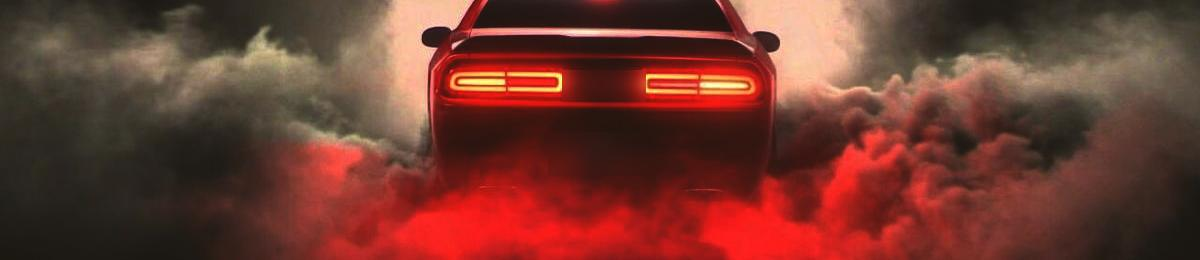
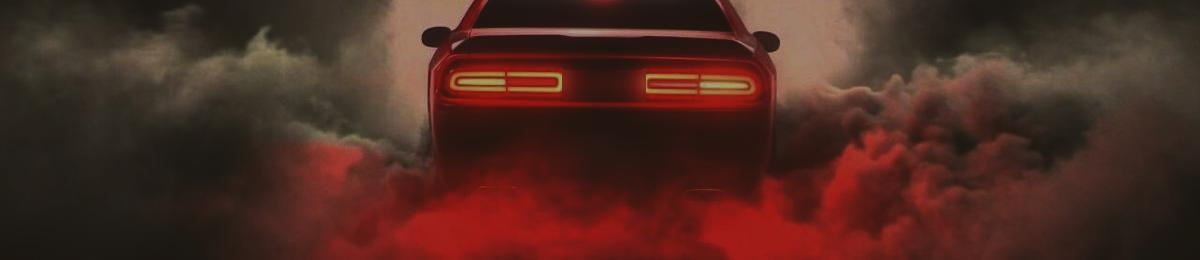
amochini: fade the brake-light band back; black and white loses
Tried both. Faded wins, so the photograph is now mixed 40% toward --board
inside the same LUT that grades it, and sits behind the page instead of on
top of it.

The mix was swept on the real page at 390 and 1440, not picked. At 0 the
bright smoke on the left pulls the eye off the price table; at 0.55 the
frame reads as underexposed rather than dark. 0.40 is where the lamps
still glow and nothing competes with the figure. Mean luminance 73.1 ->
52.6, against the board's own 22.0.

Black and white lost on both counts. It fades nothing back —
desaturating leaves mean luminance at 67.7 against colour's 73.1, so the
band is just as bright — and it changes what the picture is of: with the
red gone the grey smoke becomes the subject and the light bars read as
headlights, which is the wrong end of the car for a shop that sells
brakes. Both a 2.2 and a harder 2.8 gamma were built and looked at.

Side effect worth having: a dimmer frame compresses smaller. 6.9 KB at
1200px against 9.4, so desktop home goes 147.6 -> 145.1 KB against the
150 budget, and mobile 146.1 -> 138.4. Re-swept quality at the new grade
to confirm q=50 still holds; it does.

Contrast re-measured (worst box still clears AA), CLS still 0.000 on all
24 combinations. DESIGN.md 14.4 records both the sweep and the rejected
option so nobody re-litigates it from scratch.

Claude-Session: https://claude.ai/code/session_01CRo3rMVmoKbPJN1txZYpaW

diff --git a/amochini/build/make_images.py b/amochini/build/make_images.py
@@ -66,11 +66,12 @@ Q_HERO = dict(avif=38, webp=62, jpeg=68)
 # The brake-light band. The frame it replaced was near-black with two smooth
 # amber falloffs, which is exactly where a low-quality encode bands visibly,
 # so it was shipped at q=74. This frame is the opposite: smoke fills it edge
-# to edge, and noise is what codecs are good at. Swept 44-74 at 1200px and
-# compared at 1:1 and at 2x — q=50 is indistinguishable from q=74 with no
-# banding anywhere in the dark falloff, at 9.4 KB instead of 18.3 KB. That
-# difference is the whole reason the desktop home page fits its budget
-# (156.5 KB at q=74; the budget is 150).
+# to edge, and noise is what codecs are good at. Swept 44-74 at 1200px
+# and compared at 1:1 and at 2x, before and after the LIGHTS_MIX grade below
+# — q=50 is indistinguishable from q=74 either way, with no banding in the
+# dark falloff. 6.9 KB against 13.0 KB at the shipping grade. Without that
+# difference the desktop home page did not fit its budget at all: 156.5 KB at
+# q=74 and no fade, 145.1 KB as it ships, against 150.
 Q_LIGHTS = dict(avif=50, webp=64, jpeg=74)
 
 # --------------------------------------------------------------------------
@@ -90,15 +91,31 @@ Q_LIGHTS = dict(avif=50, webp=64, jpeg=74)
 #     masthead of the price board is somebody else's brand on ours. Both are
 #     erased with a local blur of their own surroundings, which on a smooth
 #     dark gradient leaves nothing to see.
-#  3. GRADE. A per-channel gamma curve with the board colour as its black
-#     floor. Gamma crushes the smoke (a mid grey at 150 lands near 90) while
-#     leaving the lamps alone (240 stays above 220) — a linear multiply would
-#     have taken the lamps down with the smoke and killed the only light in
-#     the frame. The floor means the darkest pixel IS --board, so the
-#     photograph's edges dissolve into the band instead of sitting on it as a
-#     slightly-different black.
+#  3. GRADE. One per-channel LUT doing two things, with --board as its black
+#     floor.
+#       GAMMA crushes the smoke (a mid grey at 150 lands near 90) while
+#         leaving the lamps alone (240 stays above 220). A linear multiply
+#         would have taken the lamps down with the smoke and killed the only
+#         light in the frame.
+#       MIX then pulls the whole result back toward the floor, so the
+#         photograph sits behind the page rather than on top of it. Swept
+#         0 / 0.25 / 0.40 / 0.55 on the real page at 390 and 1440: at 0 the
+#         smoke on the left is bright enough to pull the eye off the price
+#         table; at 0.55 the frame reads as underexposed rather than dark.
+#         0.40 is where the lamps still glow and nothing competes with the
+#         figure. Mean luminance 73.1 -> 52.6, against the board's own 22.0.
+#     The floor means the darkest pixel IS --board, so the photograph's edges
+#     dissolve into the band instead of sitting on it as a slightly-different
+#     black.
+#
+#  NOT black and white. Tried, and it loses twice. It does not fade anything
+#  back — desaturating leaves mean luminance at 67.7 against colour's 73.1,
+#  so the band is just as bright — and it changes what the picture is OF: with
+#  the red gone the grey smoke becomes the subject and the light bars read as
+#  headlights, which is the wrong end of the car for a shop that sells brakes.
 BOARD_RGB = (0x1a, 0x15, 0x0f)     # --board, DESIGN.md §2
 LIGHTS_GAMMA = 2.2
+LIGHTS_MIX = 0.40
 
 
 def _brake_lights():
@@ -116,7 +133,8 @@ def _brake_lights():
         im.paste(im.crop(box).filter(ImageFilter.GaussianBlur(radius)), box)
     lut = []
     for floor in BOARD_RGB:
-        lut += [min(255, int(floor + (v / 255.0) ** LIGHTS_GAMMA * (255 - floor) + .5))
+        lut += [min(255, int(floor + (1 - LIGHTS_MIX)
+                             * (v / 255.0) ** LIGHTS_GAMMA * (255 - floor) + .5))
                 for v in range(256)]
     return im.point(lut)
 

diff --git a/amochini/DESIGN.md b/amochini/DESIGN.md
@@ -595,15 +595,29 @@ run at build time from the vendored source so the recipe stays reviewable:
   AAA. Re-run it after any change to the crop, the grade, the height, the
   mask, or the negative margin — all five move text and photograph relative to
   each other.
+- **Faded back, not black and white.** The photograph is mixed 40% toward
+  `--board` in the same LUT that grades it (`LIGHTS_MIX`), so it sits *behind*
+  the page rather than on top of it. Swept 0 / 0.25 / 0.40 / 0.55 on the real
+  page at 390 and 1440: at 0 the bright smoke on the left pulls the eye off
+  the price table; at 0.55 the frame reads as underexposed rather than dark.
+  0.40 is where the lamps still glow and nothing competes with the figure.
+  Mean luminance 73.1 → 52.6, against the board's own 22.0.
+- **Black and white was tried and rejected**, and it lost on both counts. It
+  does not fade anything back — desaturating leaves mean luminance at 67.7
+  against colour's 73.1, so the band is just as bright — and it changes what
+  the picture is *of*: with the red gone the grey smoke becomes the subject
+  and the light bars read as headlights, which is the wrong end of the car for
+  a shop that sells brakes. The red is also the one thing tying the image to
+  §2's `--rise`, on a page whose whole story is prices going up.
 - **Quality was swept, not guessed.** 44→74 at 1200px, compared at 1∶1 and at
-  2×: q=50 is indistinguishable from q=74, with no banding in the dark
-  falloff, at 9.4 KB against 18.3 KB. The old frame's q=74 was right for a
-  near-black image with smooth gradients; this one is smoke edge to edge, and
-  noise is what codecs are good at. That 8.9 KB is the whole reason the
-  desktop home page fits: 156.5 KB at q=74, **147.6 KB** at q=50, budget 150.
-- Mobile home is 146.1 KB (the 900px rendition, 6.3 KB). CLS **0.000** on all
-  24 page/viewport combinations — the declared height reserves the box before
-  the image decodes.
+  2×, before and after the fade: q=50 is indistinguishable from q=74 either
+  way, with no banding in the dark falloff. The old frame's q=74 was right for
+  a near-black image with smooth gradients; this one is smoke edge to edge,
+  and noise is what codecs are good at.
+- Desktop home **145.1 KB** against the 150 KB budget (it was 156.5 KB at q=74
+  with no fade — the two decisions above are what make it fit). Mobile home
+  138.4 KB. CLS **0.000** on all 24 page/viewport combinations — the declared
+  height reserves the box before the image decodes.
 - The image is decorative: `alt=""` and `aria-hidden="true"`. It carries no
   information a screen-reader user would miss, and the headline immediately
   below says in words what it says in light.

diff --git a/amochini/docs/MEASUREMENTS.md b/amochini/docs/MEASUREMENTS.md
@@ -190,7 +190,7 @@ reflowed every heading and put the home page at CLS 0.001 instead of 0.
 | scroll-height drift | **0 px** on all 24 |
 | LCP | 40–156 ms, all 24 |
 | horizontal overflow at 375 / 768 / 1440 | **none** — `scrollWidth == innerWidth` at every width |
-| heaviest first load | **147.6 KB** against a 150 KB budget (desktop home, carrying the brake-light band) |
+| heaviest first load | **145.1 KB** against a 150 KB budget (desktop home, carrying the brake-light band) |
 | WCAG AA text contrast, 8 pages × 2 viewports, computed against the real ground | **0 failures** |
 | WCAG AA text contrast over the board band's photograph, 4 widths, worst pixel per text box (`build/check_contrast.py`) | **0 failures** — worst 10.25∶1 |
 | WCAG 2.5.8 target size (24×24, inline-text exemption applied) | **0 failures** |
